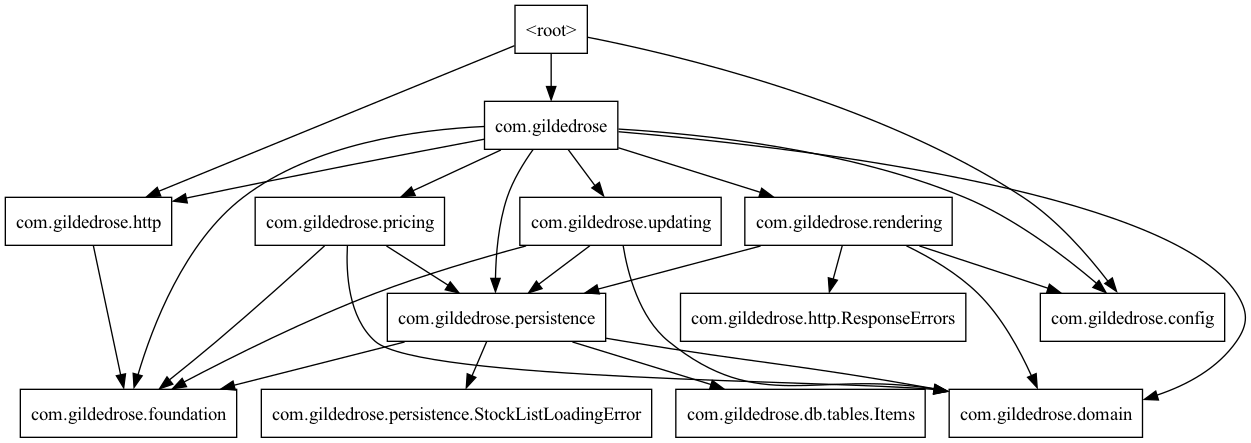
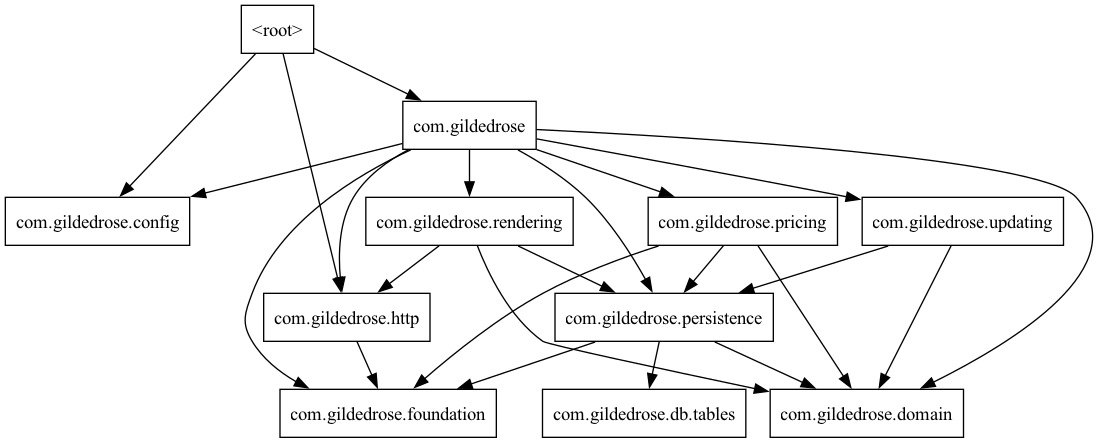
Use ClassGraph to do a better job of creating a package view

diff --git a/app/src/test/java/package-analyzer.kt b/app/src/test/java/package-analyzer.kt
@@ -1,29 +1,39 @@
+import io.github.classgraph.ClassGraph
+import org.junit.jupiter.api.Disabled
+import org.junit.jupiter.api.Test
 import java.io.File
 import java.util.regex.Pattern
 import kotlin.test.assertEquals
 
-private val packagePattern = Pattern.compile("^package\\s+(.*)$")
-private val importPattern = Pattern.compile("^import\\s+(.*)$")
 
-fun main() {
-    val outputDot = File.createTempFile("output", ".dot")
-    val outputPng = File("packages.png")
-    val srcDirPath = File("./src/main")
-    val fileTree = walkTree(srcDirPath)
+@Disabled("Run by hand only")
+class PackageAnalyzer {
+    private val includeExternalDependencies = false
 
-    generateDotFile(outputDot, fileTree)
-    createImageOutput(outputDot, outputPng)
-    checkDotFile(outputDot)
+    @Test
+    fun main() {
+        val outputDot = File.createTempFile("output", ".dot")
+        val outputPng = File("packages.png")
+        val srcDirPath = File("./src/main")
+        val fileTree = walkTree(srcDirPath, includeExternalDependencies = includeExternalDependencies)
+
+        generateDotFile(outputDot, fileTree)
+        createImageOutput(outputDot, outputPng)
+        checkDotFile(outputDot)
+    }
 }
 
-private fun walkTree(srcDirPath: File): Map<String, Set<String>> =
+private fun walkTree(srcDirPath: File, includeExternalDependencies: Boolean): Map<String, Set<String>> =
     srcDirPath.walkTopDown()
         .filter { it.isFile && it.path.endsWith(".kt") }
-        .map { file -> file.extractPackageAndImports() }
+        .map { file -> file.extractPackageAndImports(includeExternalDependencies) }
         .groupingBy { it.first }
         .fold(emptySet()) { acc, (_, importedPackages) -> acc union importedPackages }
 
-private fun File.extractPackageAndImports(): Pair<String, Set<String>> {
+private val packagePattern = Pattern.compile("^package\\s+(.*)$")
+private val importPattern = Pattern.compile("^import\\s+(.*)$")
+
+private fun File.extractPackageAndImports(includeExternal: Boolean): Pair<String, Set<String>> {
     val lines = this.readLines()
     val matcher = packagePattern.matcher(lines.firstOrNull() ?: "")
     val packageName = if (matcher.find()) matcher.group(1) else "<root>"
@@ -32,17 +42,49 @@ private fun File.extractPackageAndImports(): Pair<String, Set<String>> {
         .mapNotNull { line ->
             val importMatcher = importPattern.matcher(line)
             if (importMatcher.find()) {
-                val importedPackage = importMatcher.group(1).split('.').dropLast(1).joinToString(".")
-                if (importedPackage.startsWith("com.gildedrose")) importedPackage else null
+                val importedPackage = packageNameFrom(importMatcher.group(1).split('.'))
+                importedPackage?.let { nameFor(it, includeExternal = includeExternal) }
             } else null
         }.toSet()
 
     return Pair(packageName, importedPackages)
 }
 
+private fun nameFor(importedPackage: String, includeExternal: Boolean) =
+    if (includeExternal) {
+        when {
+            importedPackage.startsWith("com.fasterxml.jackson") -> "jackson"
+            importedPackage.startsWith("org.apache.hc") -> "apache-hc"
+            importedPackage.startsWith("org.http4k.core") -> "org.http4k.core"
+            importedPackage.startsWith("org.jooq") -> "jooq"
+            else -> importedPackage
+        }
+    } else {
+        if (importedPackage.startsWith("com.gildedrose"))
+            importedPackage
+        else
+            null
+    }
+
+private fun packageNameFrom(components: List<String>): String? {
+    var current = components
+    while (current.isNotEmpty()) {
+        val packageName = current.joinToString(".")
+        if (packageName.isValidPackageName())
+            return packageName
+        current = current.dropLast(1)
+    }
+    return null
+}
+
+private val allPackages = ClassGraph().enableClassInfo()
+    .scan().allClasses.map { it.packageName }.toSet()
+
+private fun String.isValidPackageName(): Boolean = allPackages.contains(this)
+
 private fun checkDotFile(dotFile: File) {
-    val dotFileContents = dotFile.readLines()
-    val approvedFileContents = File("src/test/resources/package-dotfile.approved").readLines()
+    val dotFileContents = dotFile.readText()
+    val approvedFileContents = File("src/test/resources/package-dotfile.approved").readText()
     assertEquals(approvedFileContents, dotFileContents)
 }
 
@@ -54,7 +96,10 @@ private fun generateDotFile(dotFile: File, fileTree: Map<String, Set<String>>) {
         out.println("\"com.gildedrose\" [rank=min];")
 
         fileTree.forEach { (pkg, imports) ->
-            imports.forEach { importedPkg -> out.println("\"$pkg\" -> \"$importedPkg\";") }
+            imports.forEach { importedFull ->
+                // For the dot file, we need to use the full import path
+                out.println("\"$pkg\" -> \"$importedFull\";")
+            }
         }
 
         out.println("}")
